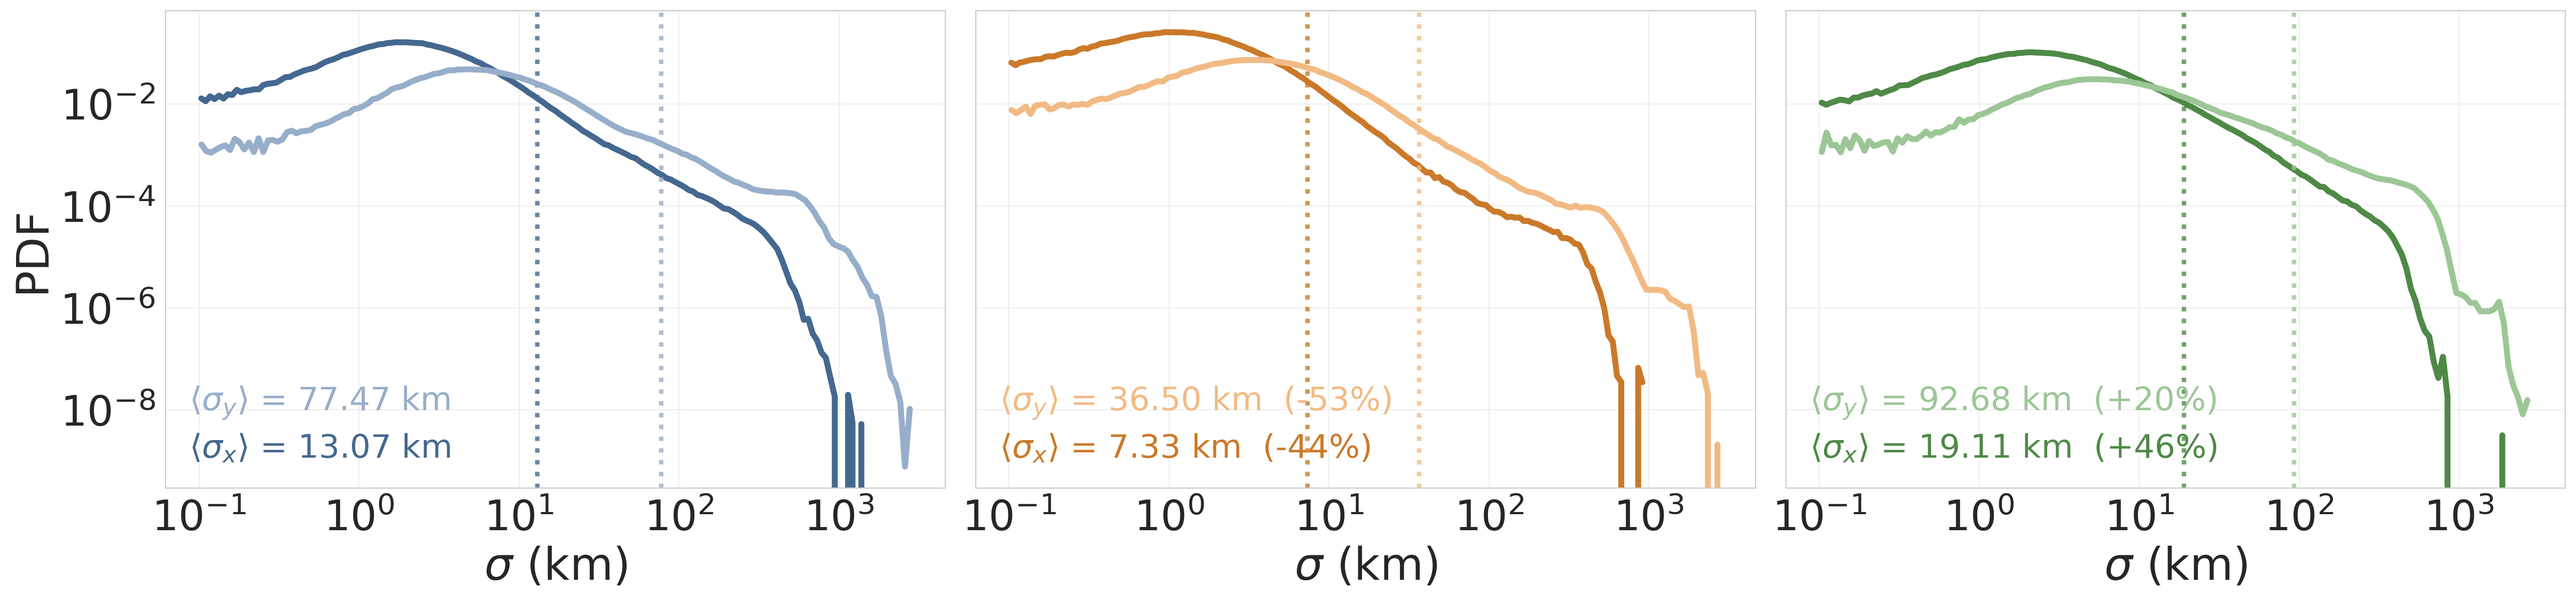
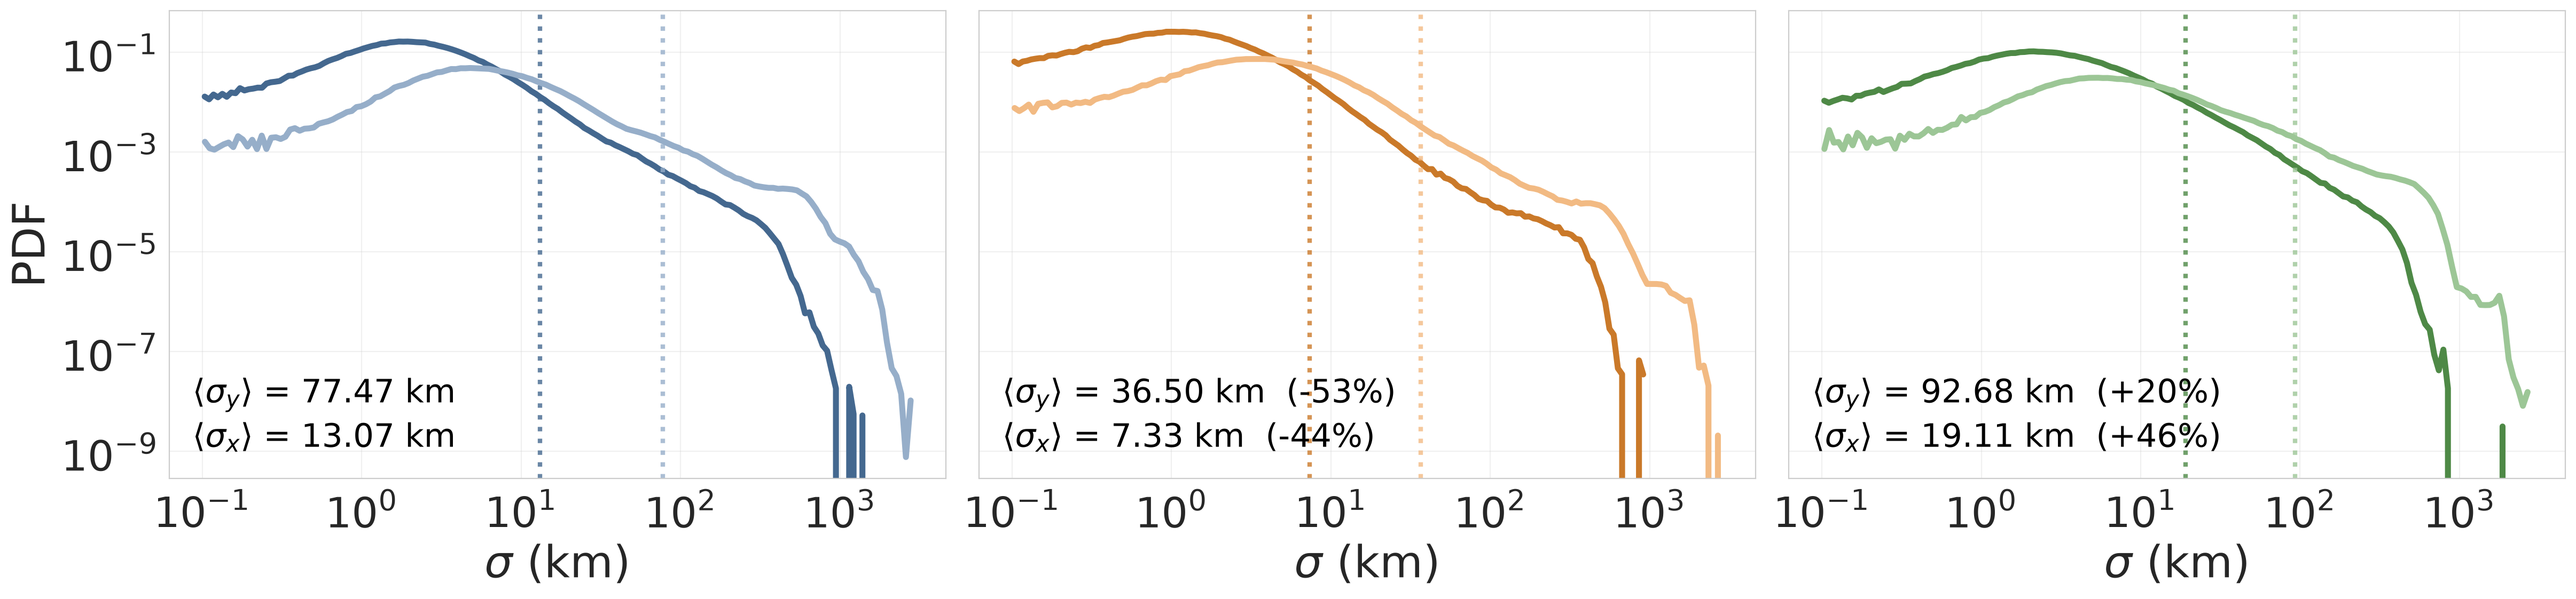
Add figure_4_5_combined and fix figure_5 legend readability
- figure_5 (sigmaxy): the sigma_x/sigma_y mean-value annotation was
  colored to match its line's pale shade, making it hard to read
  against the white background. Force it to black for all periods.
- Add plot_figure_4_5_combined, stitching the existing figure_4
  (gonzalez) and figure_5 (sigmaxy) renders into a single stacked
  image without altering how each is individually drawn/saved.

Claude-Session: https://claude.ai/code/session_01Lu4ztdvh952FwgFX5V2fYd

diff --git a/plot_change_mobility_covid.py b/plot_change_mobility_covid.py
@@ -457,7 +457,7 @@ def draw_sigmaxy(df: pd.DataFrame):
             annotations.append((axis, txt))
         for j, (axis, txt) in enumerate(annotations):
             ax.text(0.03, 0.05 + 0.09 * j, txt, transform=ax.transAxes, ha="left", va="bottom",
-                    color=axis2color[axis], fontsize=FS_LEGEND)
+                    color="black", fontsize=FS_LEGEND)
         ax.set_xlabel(r"$\sigma$ (km)", fontsize=FS_LABEL)
         if idx == 0:
             ax.set_ylabel("PDF", fontsize=FS_LABEL)
@@ -587,6 +587,59 @@ def plot_figure_7(csv_path=DIR_DATA / "figure_7.csv", out_dir: Path = DIR_FIGURE
 
 
 # ===========================================================================
+# figure_4_5_combined -- gonzalez (figure_4) stacked on top of sigmaxy
+# (figure_5) in a single image, California. Does not touch draw_gonzalez /
+# draw_sigmaxy: each is rendered exactly as it is for its own standalone
+# figure, and the two rendered images are stitched together afterwards.
+# ===========================================================================
+
+def _fig_to_rgba(fig, dpi: float) -> np.ndarray:
+    """Rasterise a matplotlib Figure to an (H, W, 4) uint8 RGBA array at *dpi*."""
+    fig.set_dpi(dpi)
+    fig.canvas.draw()
+    return np.asarray(fig.canvas.buffer_rgba())
+
+
+def stack_figures_vertically(figs, dpi: float = setup_mpl.DPI):
+    """Stitch already-built Figures into one, stacked top to bottom.
+
+    Each figure in *figs* is rasterised independently (unchanged) and the
+    resulting images are stacked (narrower ones centre-padded to the widest)
+    into a new Figure sized to match, ready to hand to ``_save``.
+    """
+    arrays = [_fig_to_rgba(f, dpi) for f in figs]
+    for f in figs:
+        plt.close(f)
+
+    width = max(a.shape[1] for a in arrays)
+    padded = []
+    for a in arrays:
+        pad_w = width - a.shape[1]
+        if pad_w:
+            left = pad_w // 2
+            a = np.pad(a, ((0, 0), (left, pad_w - left), (0, 0)))
+        padded.append(a)
+    stacked = np.concatenate(padded, axis=0)
+
+    fig = plt.figure(figsize=(stacked.shape[1] / dpi, stacked.shape[0] / dpi), dpi=dpi)
+    ax = fig.add_axes([0, 0, 1, 1])
+    ax.imshow(stacked)
+    ax.axis("off")
+    return fig
+
+
+def plot_figure_4_5_combined(
+    csv_path_4=DIR_DATA / "figure_4.csv", csv_path_5=DIR_DATA / "figure_5.csv",
+    out_dir: Path = DIR_FIGURES, fmt: str = "png",
+) -> Path:
+    """figure_4_5_combined -- figure_4 (gonzalez) + figure_5 (sigmaxy) stacked into one image, California."""
+    fig_4 = draw_gonzalez(pd.read_csv(csv_path_4))
+    fig_5 = draw_sigmaxy(pd.read_csv(csv_path_5))
+    fig = stack_figures_vertically([fig_4, fig_5])
+    return _save(fig, out_dir, "figure_4_5_combined", fmt)
+
+
+# ===========================================================================
 # Registry + CLI
 # ===========================================================================
 
@@ -606,17 +659,36 @@ FIGURE_PLOTTERS = {
     "figure_13": plot_figure_13,
 }
 
+# Plotters that combine more than one figure_<i>.csv into a single image --
+# handled separately from FIGURE_PLOTTERS since "csv_path = data_dir /
+# f'{name}.csv'" doesn't apply to them. Maps name -> (plotter_fn, [csv stems]).
+COMBINED_PLOTTERS = {
+    "figure_4_5_combined": (plot_figure_4_5_combined, ["figure_4", "figure_5"]),
+}
+
 
 def run(args) -> None:
     setup_mpl.setup()
     data_dir = Path(args.data_dir)
     out_dir  = Path(args.out_dir)
-    targets  = args.only or list(FIGURE_PLOTTERS)
+    targets  = args.only or list(FIGURE_PLOTTERS) + list(COMBINED_PLOTTERS)
 
     for name in targets:
+        if name in COMBINED_PLOTTERS:
+            plotter, deps = COMBINED_PLOTTERS[name]
+            csv_paths = [data_dir / f"{d}.csv" for d in deps]
+            missing = [p for p in csv_paths if not p.exists()]
+            if missing:
+                print(f"  SKIP {name}: {missing} not found -- run extract_figure_data.py first.")
+                continue
+            out_path = plotter(*csv_paths, out_dir)
+            print(f"  Wrote {out_path}")
+            continue
+
         plotter = FIGURE_PLOTTERS.get(name)
         if plotter is None:
-            print(f"  Unknown figure {name!r} -- skipping (choices: {sorted(FIGURE_PLOTTERS)}).")
+            print(f"  Unknown figure {name!r} -- skipping "
+                  f"(choices: {sorted(FIGURE_PLOTTERS) + sorted(COMBINED_PLOTTERS)}).")
             continue
         csv_path = data_dir / f"{name}.csv"
         if not csv_path.exists():
@@ -628,7 +700,8 @@ def run(args) -> None:
 
 def parse_args():
     parser = argparse.ArgumentParser(
-        description="Regenerate figure_1.png .. figure_13.png from paper/data/figure_<i>.csv.",
+        description="Regenerate figure_1.png .. figure_13.png (plus figure_4_5_combined.png) "
+                     "from paper/data/figure_<i>.csv.",
         formatter_class=argparse.ArgumentDefaultsHelpFormatter,
     )
     parser.add_argument("--only", nargs="+", default=None, help="Subset of figures to regenerate.")
